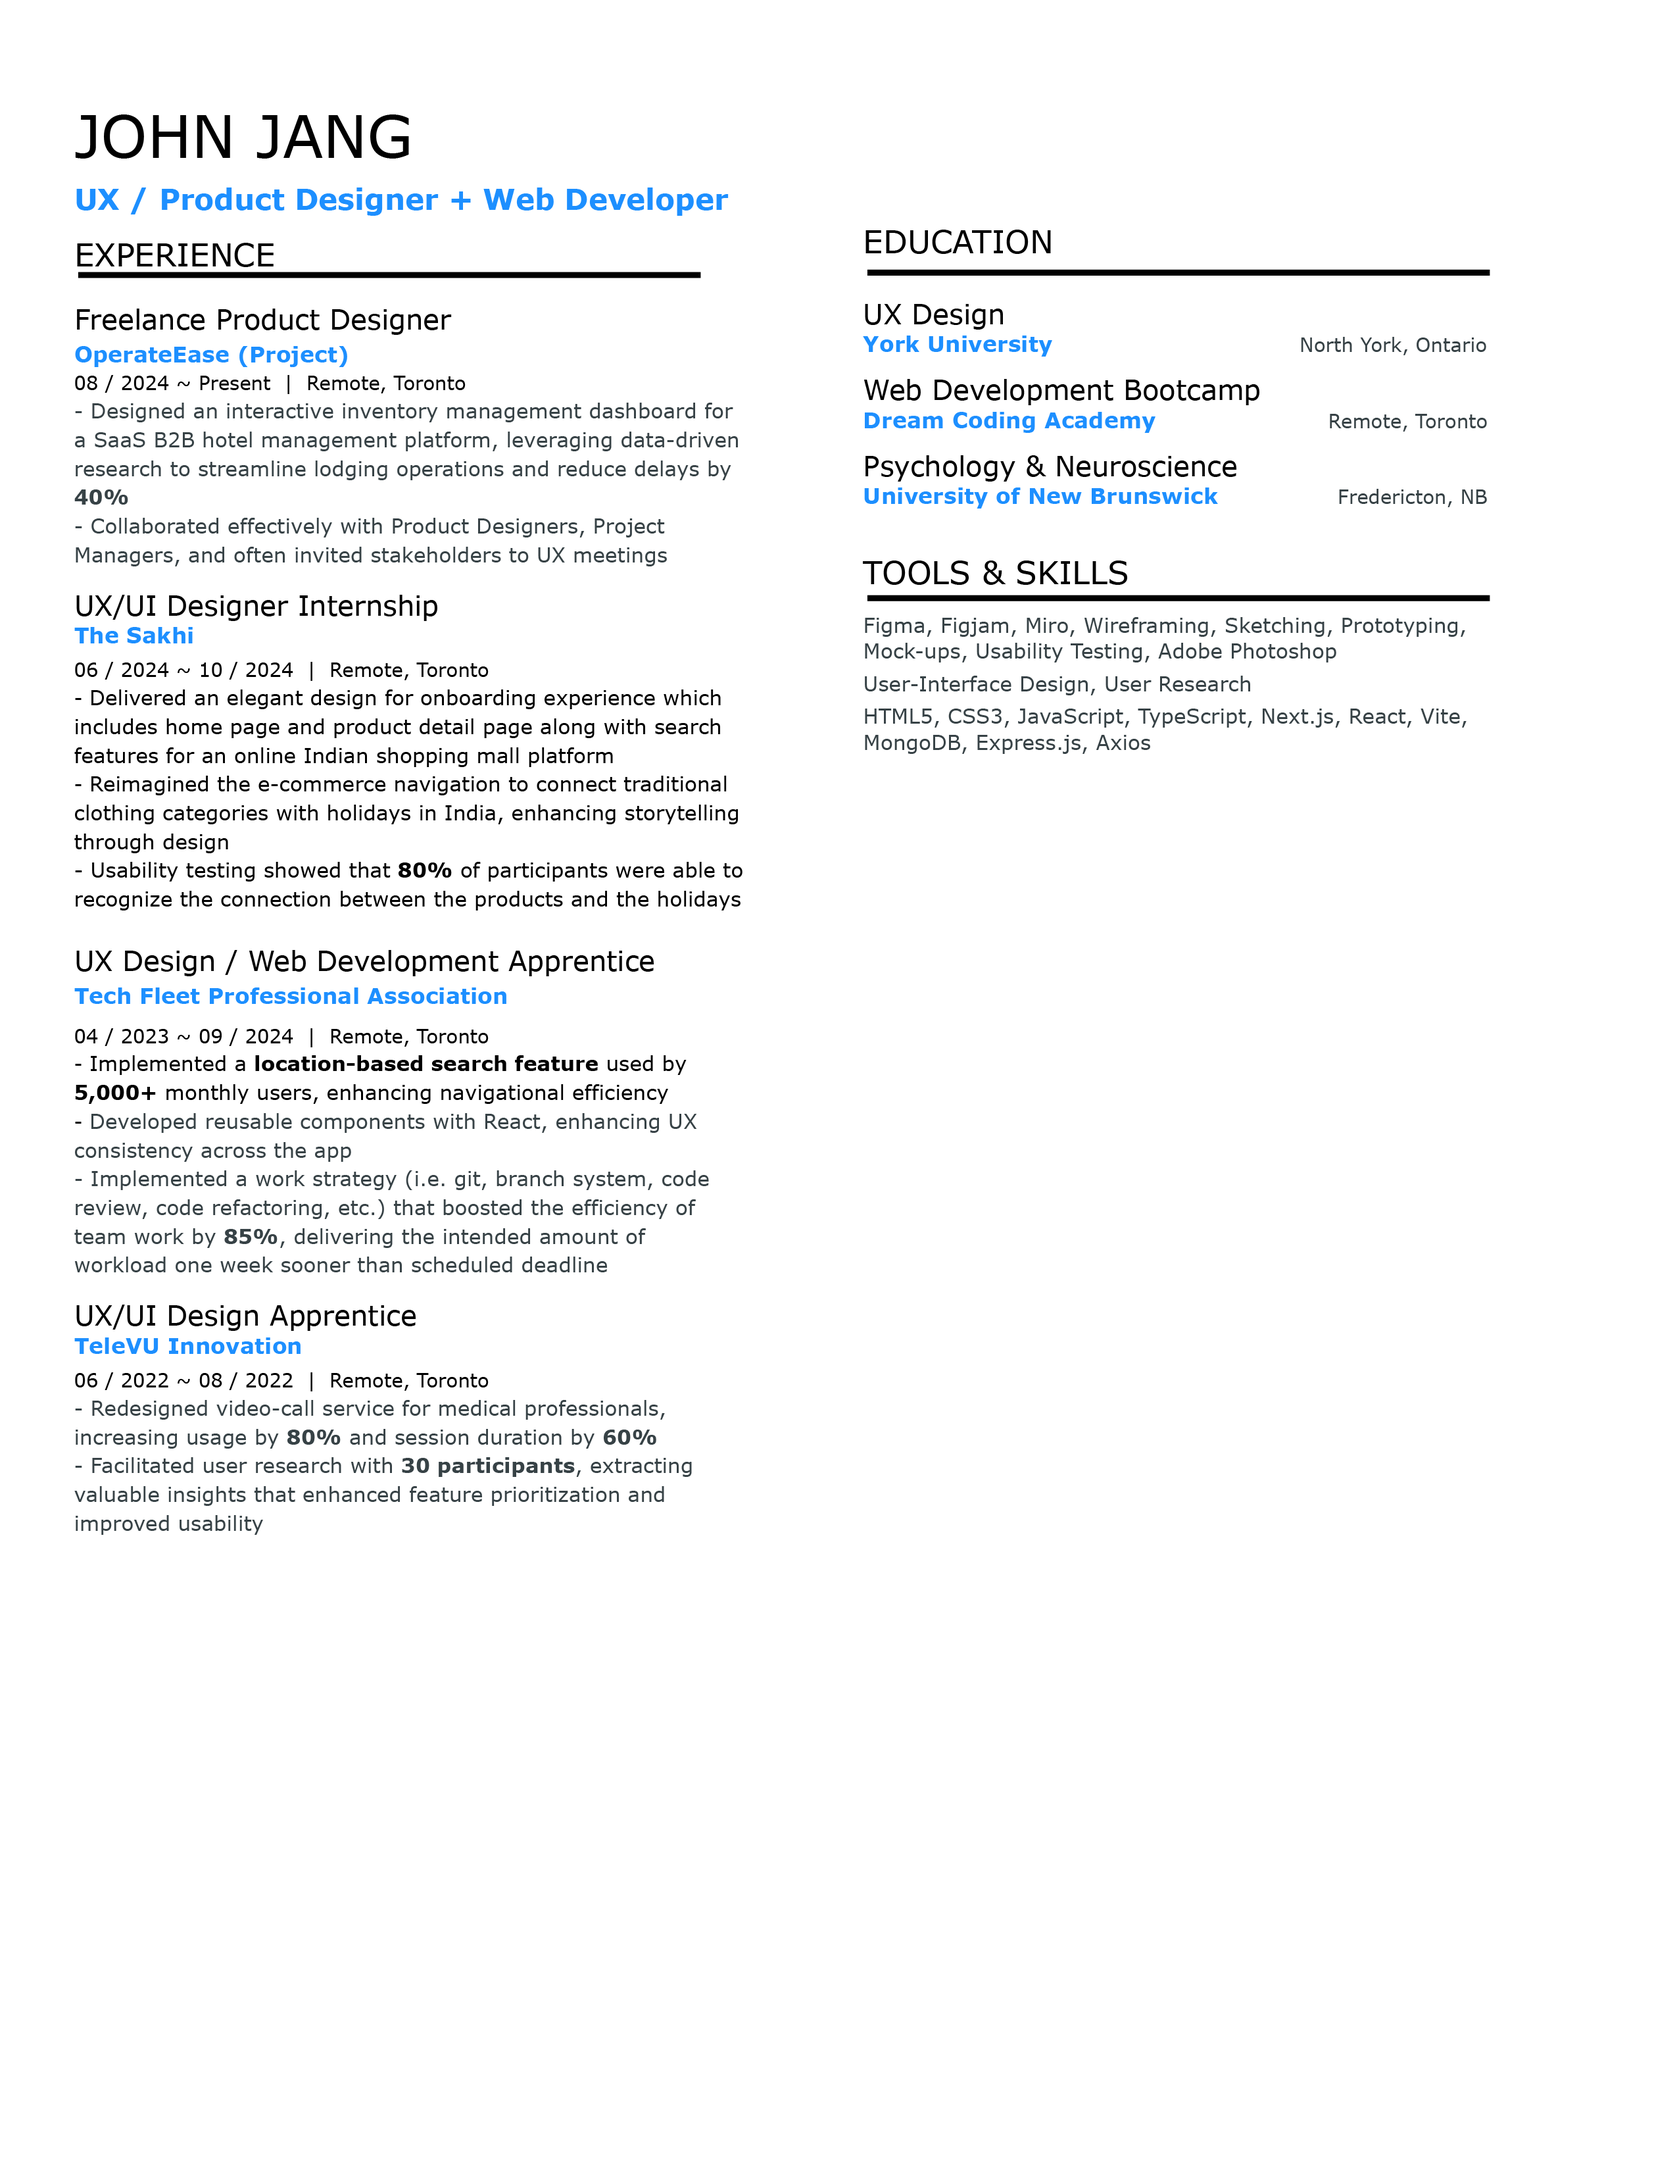
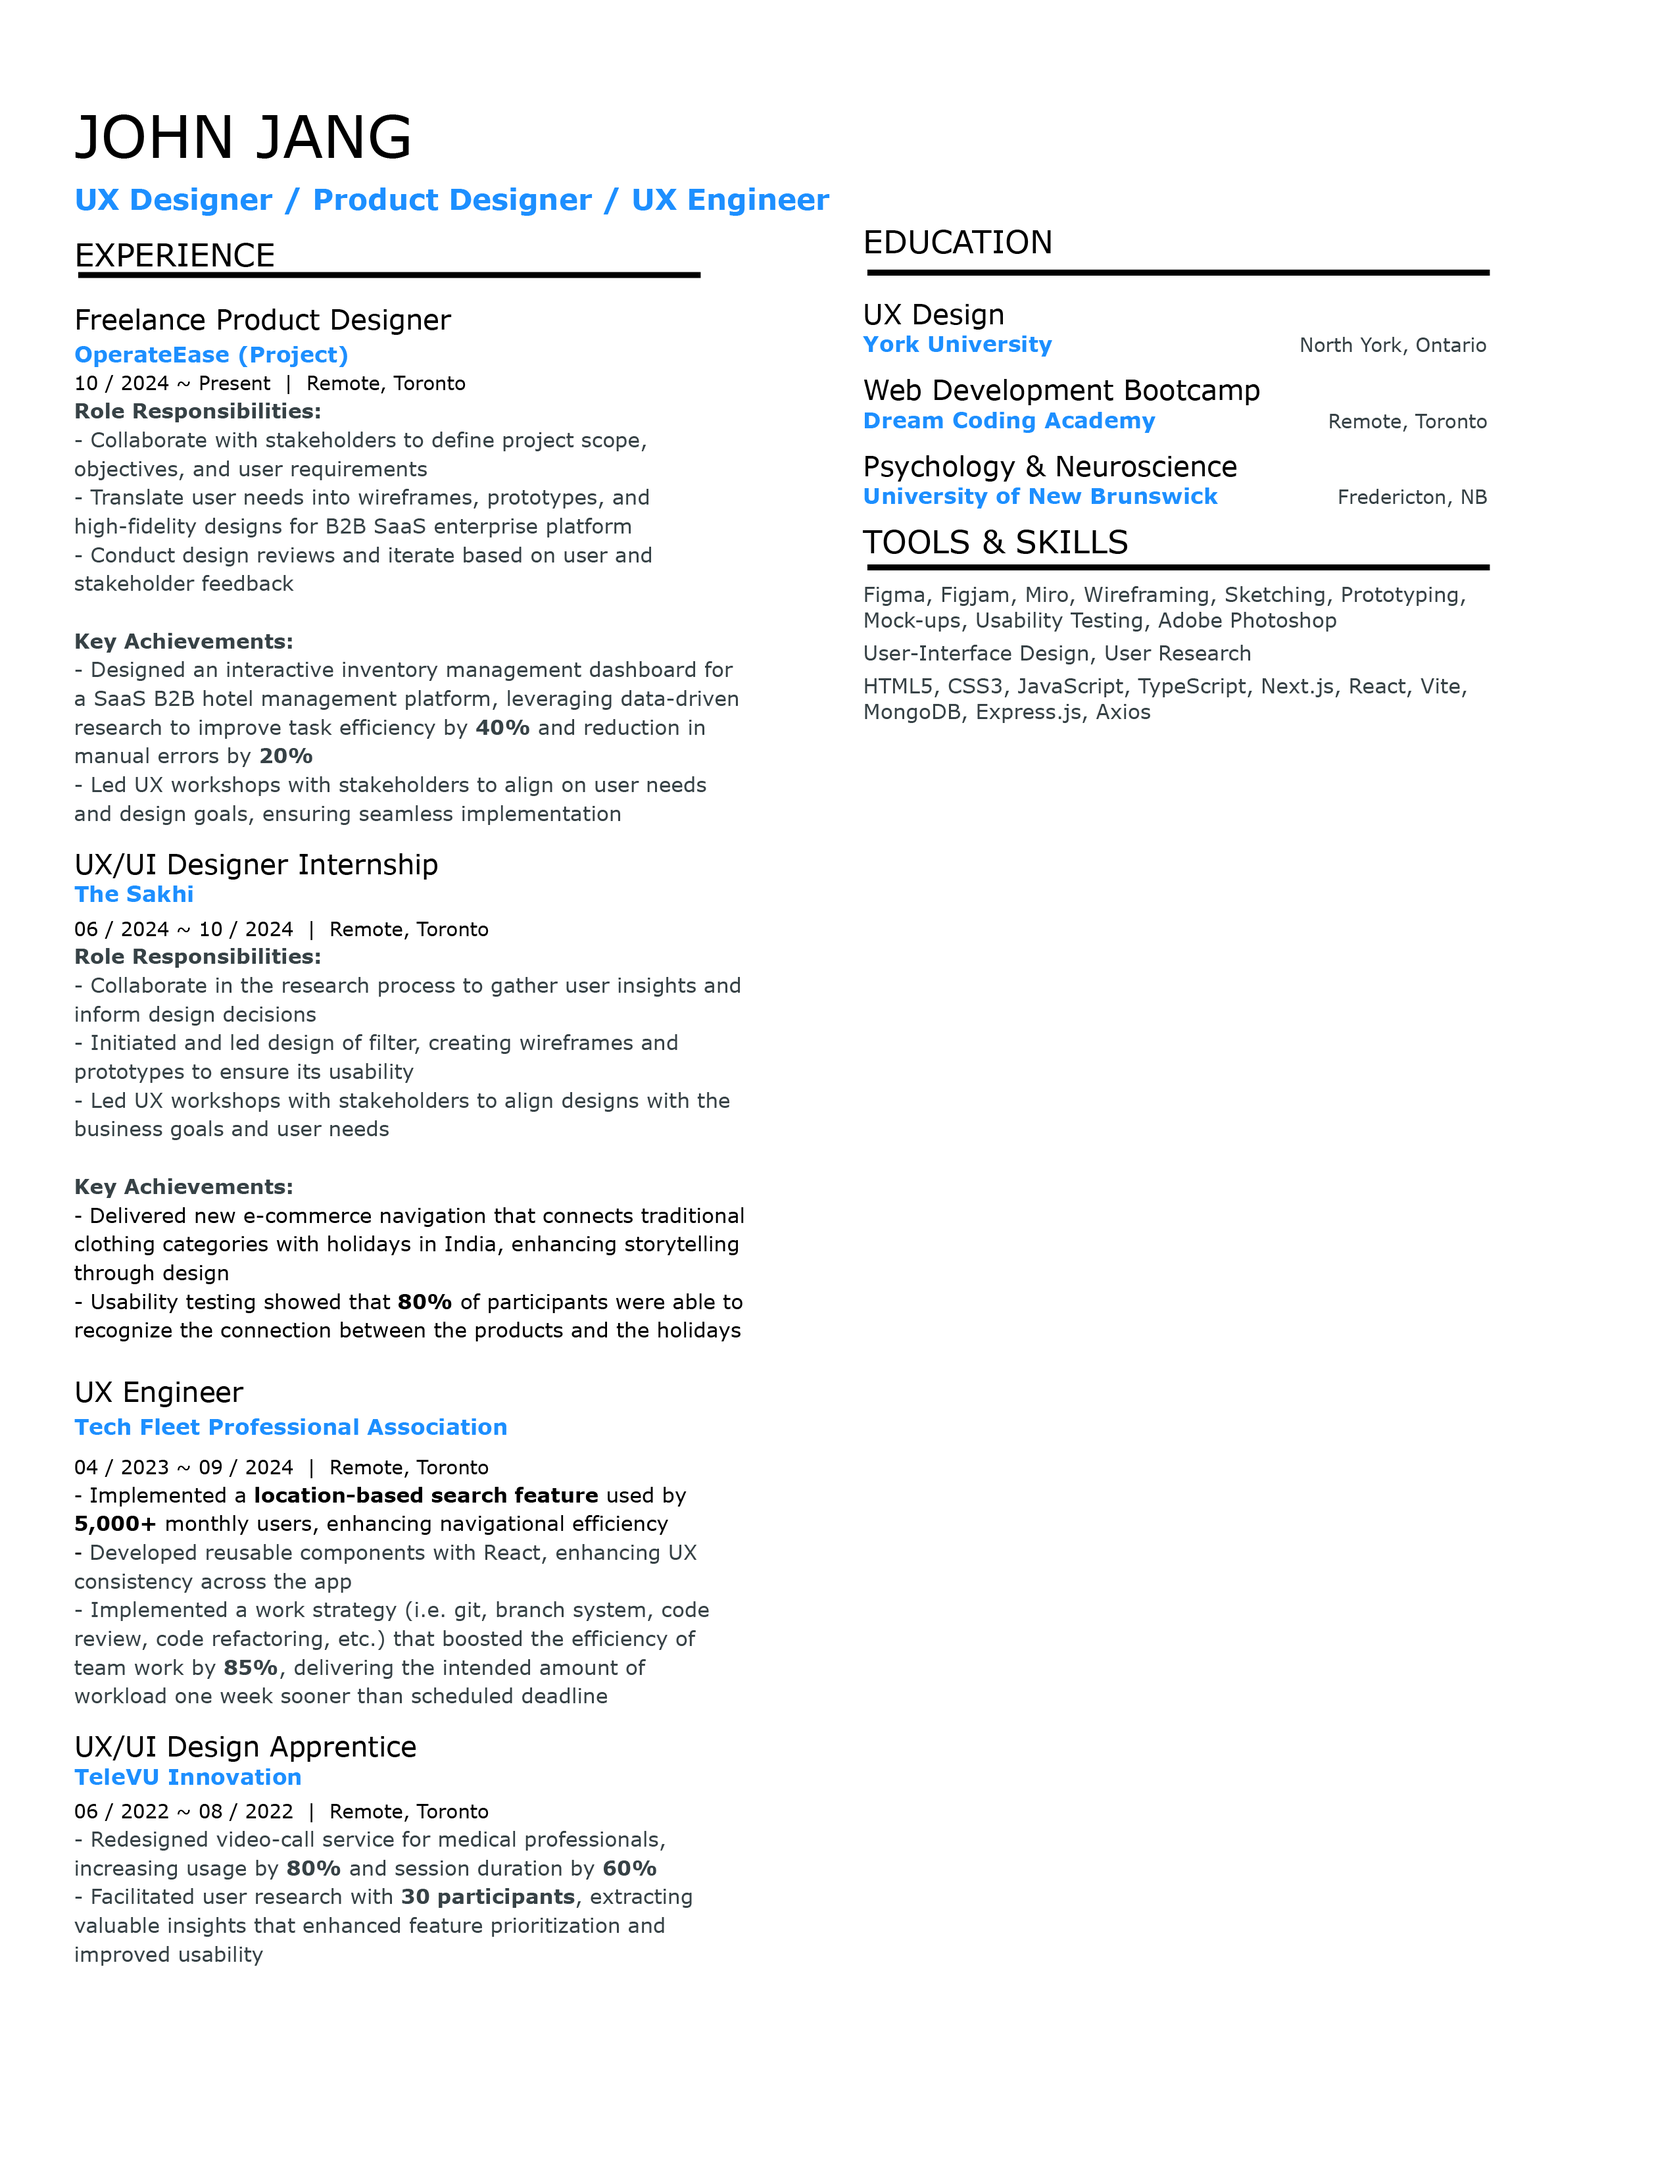
overall update

diff --git a/src/pages/resume/resume.jsx b/src/pages/resume/resume.jsx
@@ -4,8 +4,26 @@ export default function Resume() {
   return (
     <section>
       <p className="text-center mt-10 md:text-2xl">
-        The following is my resume sample.
+        The following image is my sample resume.
       </p>
+      <div className="my-5">
+        <div className="md:flex md:items-center md:text-center md:gap-1 md:justify-center hidden">
+          <p>Please reach out to me</p>
+          <Link to="/contact">
+            <p className="text-blue-500">here</p>
+          </Link>
+          <p>
+            for the most up-to-date information and to get the password to
+            unlock the locked projects.
+          </p>
+        </div>
+        <div className="flex items-center text-center gap-1 justify-center md:hidden">
+          <p>Check out the latest version</p>
+          <Link to="/contact">
+            <p className="text-blue-500">here</p>
+          </Link>
+        </div>
+      </div>
       <div className="my-10 mx-12 md:mx-0">
         <img
           src="/product_designer.png"
@@ -19,7 +37,10 @@ export default function Resume() {
         <Link to="/contact">
           <p className="text-blue-500">here</p>
         </Link>
-        <p>for the most up-to-date information.</p>
+        <p>
+          for the most up-to-date information and to get the password to unlock
+          the locked projects.
+        </p>
       </div>
       <div className="flex items-center text-center gap-1 justify-center md:hidden">
         <p>Check out the latest version</p>

diff --git a/src/pages/home/home.jsx b/src/pages/home/home.jsx
@@ -112,19 +112,14 @@ export default function Home() {
                 simplicity
               </p>
               <p>
-                Bringing cross-industry insights to create user-centered designs
-                that adapt, inspire, and deliver meaningful results
+                I deliver meaningful results with inspiring designs that
+                consider the business goals, the user needs, and the technical
+                feasibility.
               </p>
             </div>
           </div>
-          {/* <div>
-            <p className="my-5 text-sm text-teal-800">
-              Currently, I&#39;m open to new Product Design or UX/UI Design
-              roles!
-            </p>
-          </div> */}
         </div>
-        <div className="mt-10 md:my-12 md:pb-5">
+        {/* <div className="mt-10 md:my-12 md:pb-5">
           <h3 className="text-center md:text-2xl text-xl">Tools & Skills</h3>
           <div className="md:grid md:grid-cols-2 items-start py-10 gap-10 space-y-5 md:space-y-0 xl:h-28">
             <div className="bg-white rounded-2xl p-3 h-full">
@@ -140,7 +135,7 @@ export default function Home() {
               </p>
             </div>
           </div>
-        </div>
+        </div> */}
         <div className="md:hidden flex justify-between">
           <Link
             to="/about"

diff --git a/src/components/lock/password.jsx b/src/components/lock/password.jsx
@@ -18,7 +18,7 @@ export default function Password({ onCorrectPassword }) {
 
   return (
     <div className="py-10 md:w-3/6 w-5/6 mx-auto bg-slate-300 rounded-3xl">
-      <h1 className="text-center text-3xl mt-10">NDA</h1>
+      <h1 className="text-center text-3xl mt-10">Want to know more?</h1>
       <div className="py-5 text-center">
         <p>Please check my resume for the password!</p>
       </div>

diff --git a/src/utils/about.js b/src/utils/about.js
@@ -1,5 +1,5 @@
 // DEMO
-import About from "../assets/about/introduction/hiker.png";
+import About from "../assets/about/introduction/hiker.jpg";
 import Neuroscience from "../assets/about/introduction/eeg-testing-children.png";
 import Teacher from "../assets/about/introduction/teaching.png";
 import Challenge from "../assets/about/challenge/challenge.jpg";

diff --git a/src/pages/design/operate-ease.jsx b/src/pages/design/operate-ease.jsx
@@ -190,7 +190,7 @@ export default function OPERATE() {
             </div>
             <div className="flex space-x-5 text-black">
               <p className="font-bold">Timeline</p>
-              <p>August 2024 ~ Present</p>
+              <p>October 2024 ~ Present</p>
             </div>
           </div>
         </div>
